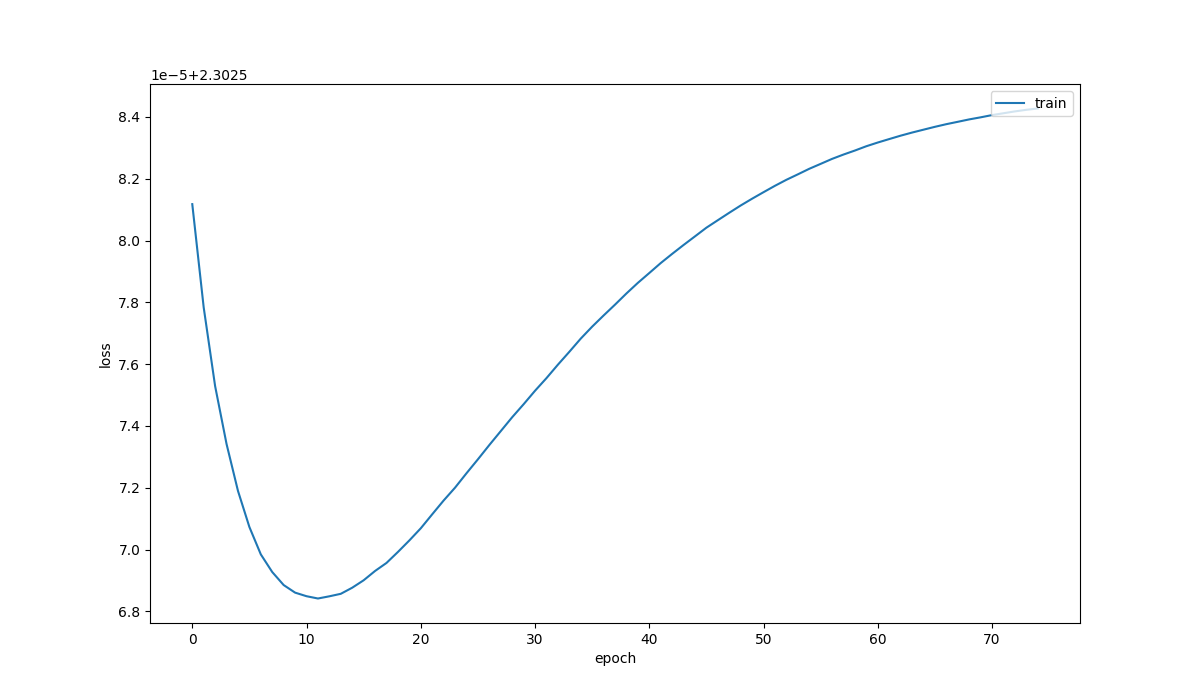
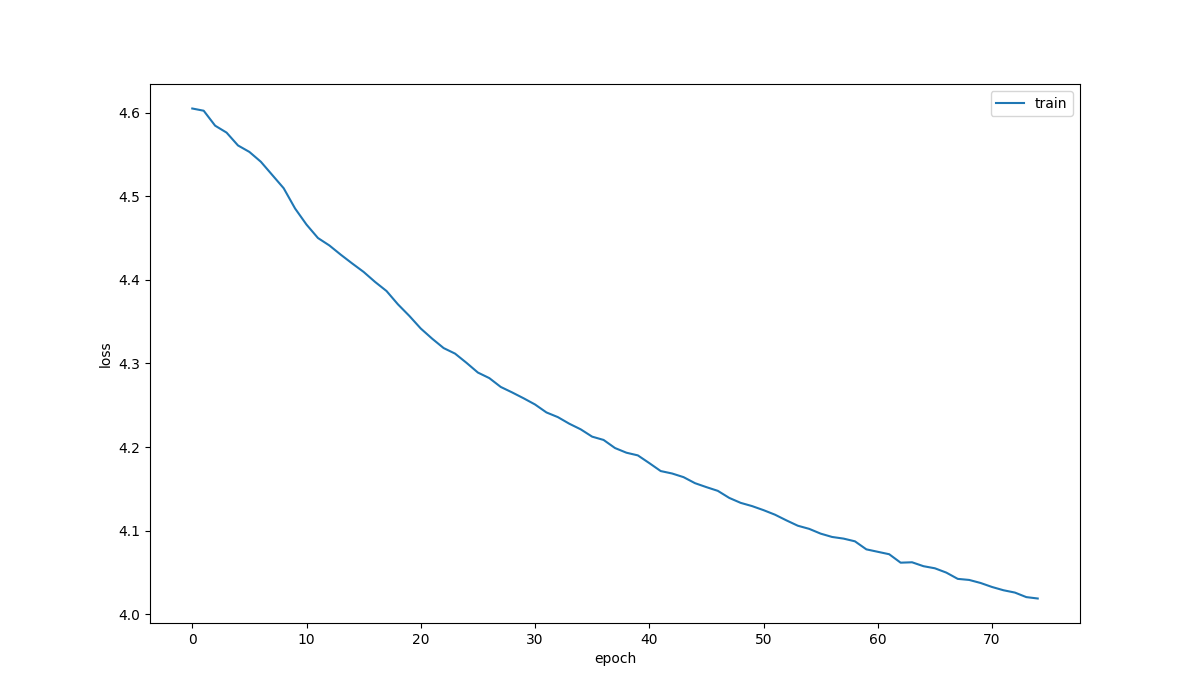
Fixed and re-trained modified model. Added more args to test script.
Added normalizations in residual connector as they are needed for this style
of architecture. Performed much better, but still not better than vanilla.
Maybe it's not deep enough? ResNet is quite deep.

Note: Once again, pth file is too big so cannot push it to GitHub

diff --git a/Lab03/test.py b/Lab03/test.py
@@ -1,5 +1,5 @@
 import argparse
-import model
+import model as m
 import torch
 import torchvision.datasets as datasets
 import torchvision.transforms as transforms
@@ -29,7 +29,7 @@ def evaluate(model, data_loader):
     total = 0
     with torch.no_grad():
         for images, labels in data_loader:
-            print(total)
+            # print(total)
             output = model.forward(images)
 
             # calculate top-1 error rate
@@ -54,17 +54,41 @@ def evaluate(model, data_loader):
 if __name__ == "__main__":
     # Get arguments from command line
     parser = argparse.ArgumentParser()
-    parser.add_argument("-classifier")
+    parser.add_argument("-mod")
+    parser.add_argument("-nn")
+    parser.add_argument("-cifar10")
 
     args = vars(parser.parse_args())
-    classifier_pth = args["classifier"]
+
+    nn_pth = args["nn"]
+    mod = False
+    if str(args["mod"]).upper() == "Y":
+        mod = True
+    num_classes = 100
+    if str(args["cifar10"]).upper() == "Y":
+        num_classes = 10
 
     print("Creating model and loading data")
-    encoder = model.encoder
-    model = model.classifier(100, encoder)
-    model.load_state_dict(torch.load(classifier_pth))
+    # encoder = m.encoder_mod
+    # model = model.classifier(10, encoder)
+    # model.load_state_dict(torch.load(nn_pth))
 
-    test_set = getCIFAR_100_Dataset()
+    encoder = None
+    model = None
+    if mod:
+        encoder = m.encoder_mod
+        model = m.classifier(num_classes, encoder, True)
+        model.load_state_dict(torch.load(nn_pth))
+    else:
+        encoder = m.encoder_vanilla
+        model = m.classifier(num_classes, encoder, True)
+        model.load_state_dict(torch.load(nn_pth))
+
+    test_set = None
+    if num_classes == 10:
+        test_set = getCIFAR_10_Dataset()
+    else:
+        test_set = getCIFAR_100_Dataset()
     data_loader = torch.utils.data.DataLoader(test_set, shuffle=False, batch_size=32)
     print("Dataset size: ", len(data_loader))
 

diff --git a/Lab03/train.py b/Lab03/train.py
@@ -93,6 +93,7 @@ if __name__ == "__main__":
     parser.add_argument("-cuda")
     parser.add_argument("-mps")
     parser.add_argument("-mod")
+    parser.add_argument("-cifar10")
 
     args = vars(parser.parse_args())
 
@@ -109,29 +110,37 @@ if __name__ == "__main__":
     mod = False
     if str(args["mod"]).upper() == "Y":
         mod = True
+    num_classes = 100
+    if str(args["cifar10"]).upper() == "Y":
+        num_classes = 10
 
     print("Creating model and loading data")
     encoder = None
     model = None
     if mod:
         encoder = m.encoder_mod
-        model = m.classifier(10, encoder, False)
+        model = m.classifier(num_classes, encoder, False)
     else:
         encoder = m.encoder_vanilla
         encoder.load_state_dict(torch.load(encoder_pth))
-        model = m.classifier(10, encoder, True)
+        model = m.classifier(num_classes, encoder, True)
 
-    train_set = getCIFAR_10_Dataset()
+    train_set = None
+    if num_classes == 10:
+        train_set = getCIFAR_10_Dataset()
+    else:
+        train_set = getCIFAR_100_Dataset()
+
     data_loader = torch.utils.data.DataLoader(train_set, batch_size=batch_size, shuffle=True)
     print("Dataset size: ", len(train_set))
 
     # optimizer = torch.optim.Adam(model.parameters(), lr=0.001)
-    optimizer_SGD = torch.optim.SGD(model.parameters(), lr=0.001, momentum=0.9, weight_decay=5e-4)
+    optimizer_SGD = torch.optim.SGD(model.parameters(), lr=0.001, momentum=0.9, weight_decay=0.001)
 
     train(model, optimizer_SGD, n_epoch, torch.nn.CrossEntropyLoss(), data_loader, device, loss_plot, save_pth)
 
     # summarize the output
     if torch.has_mps:
-        summary(model, (3, 32, 32), device=device)
+        summary(model, (batch_size, 3, 32, 32), device=device)
     else:
         summary(model, (3, 32, 32), batch_size=batch_size, device=device)

diff --git a/Lab03/model.py b/Lab03/model.py
@@ -52,11 +52,12 @@ class ResidualBlock_2(nn.Module):
         self.conv1 = nn.Sequential(
             nn.ReflectionPad2d((1, 1, 1, 1)),
             nn.Conv2d(c, c, kernel_size=(3, 3), stride=1),
+            nn.BatchNorm2d(c),
             nn.ReLU())
         self.conv2 = nn.Sequential(
             nn.ReflectionPad2d((1, 1, 1, 1)),
             nn.Conv2d(c, c, kernel_size=(3, 3), stride=1),
-            nn.ReLU())
+            nn.BatchNorm2d(c))
 
         self.relu = nn.ReLU(inplace=True)
 
@@ -82,15 +83,17 @@ class ResidualBlock_3(nn.Module):
         self.conv1 = nn.Sequential(
             nn.ReflectionPad2d((1, 1, 1, 1)),
             nn.Conv2d(c, c, kernel_size=(3, 3), stride=1),
+            nn.BatchNorm2d(c),
             nn.ReLU())
         self.conv2 = nn.Sequential(
             nn.ReflectionPad2d((1, 1, 1, 1)),
             nn.Conv2d(c, c, kernel_size=(3, 3), stride=1),
+            nn.BatchNorm2d(c),
             nn.ReLU())
         self.conv3 = nn.Sequential(
             nn.ReflectionPad2d((1, 1, 1, 1)),
             nn.Conv2d(c, c, kernel_size=(3, 3), stride=1),
-            nn.ReLU())
+            nn.BatchNorm2d(c))
 
         self.relu = nn.ReLU(inplace=True)
 
